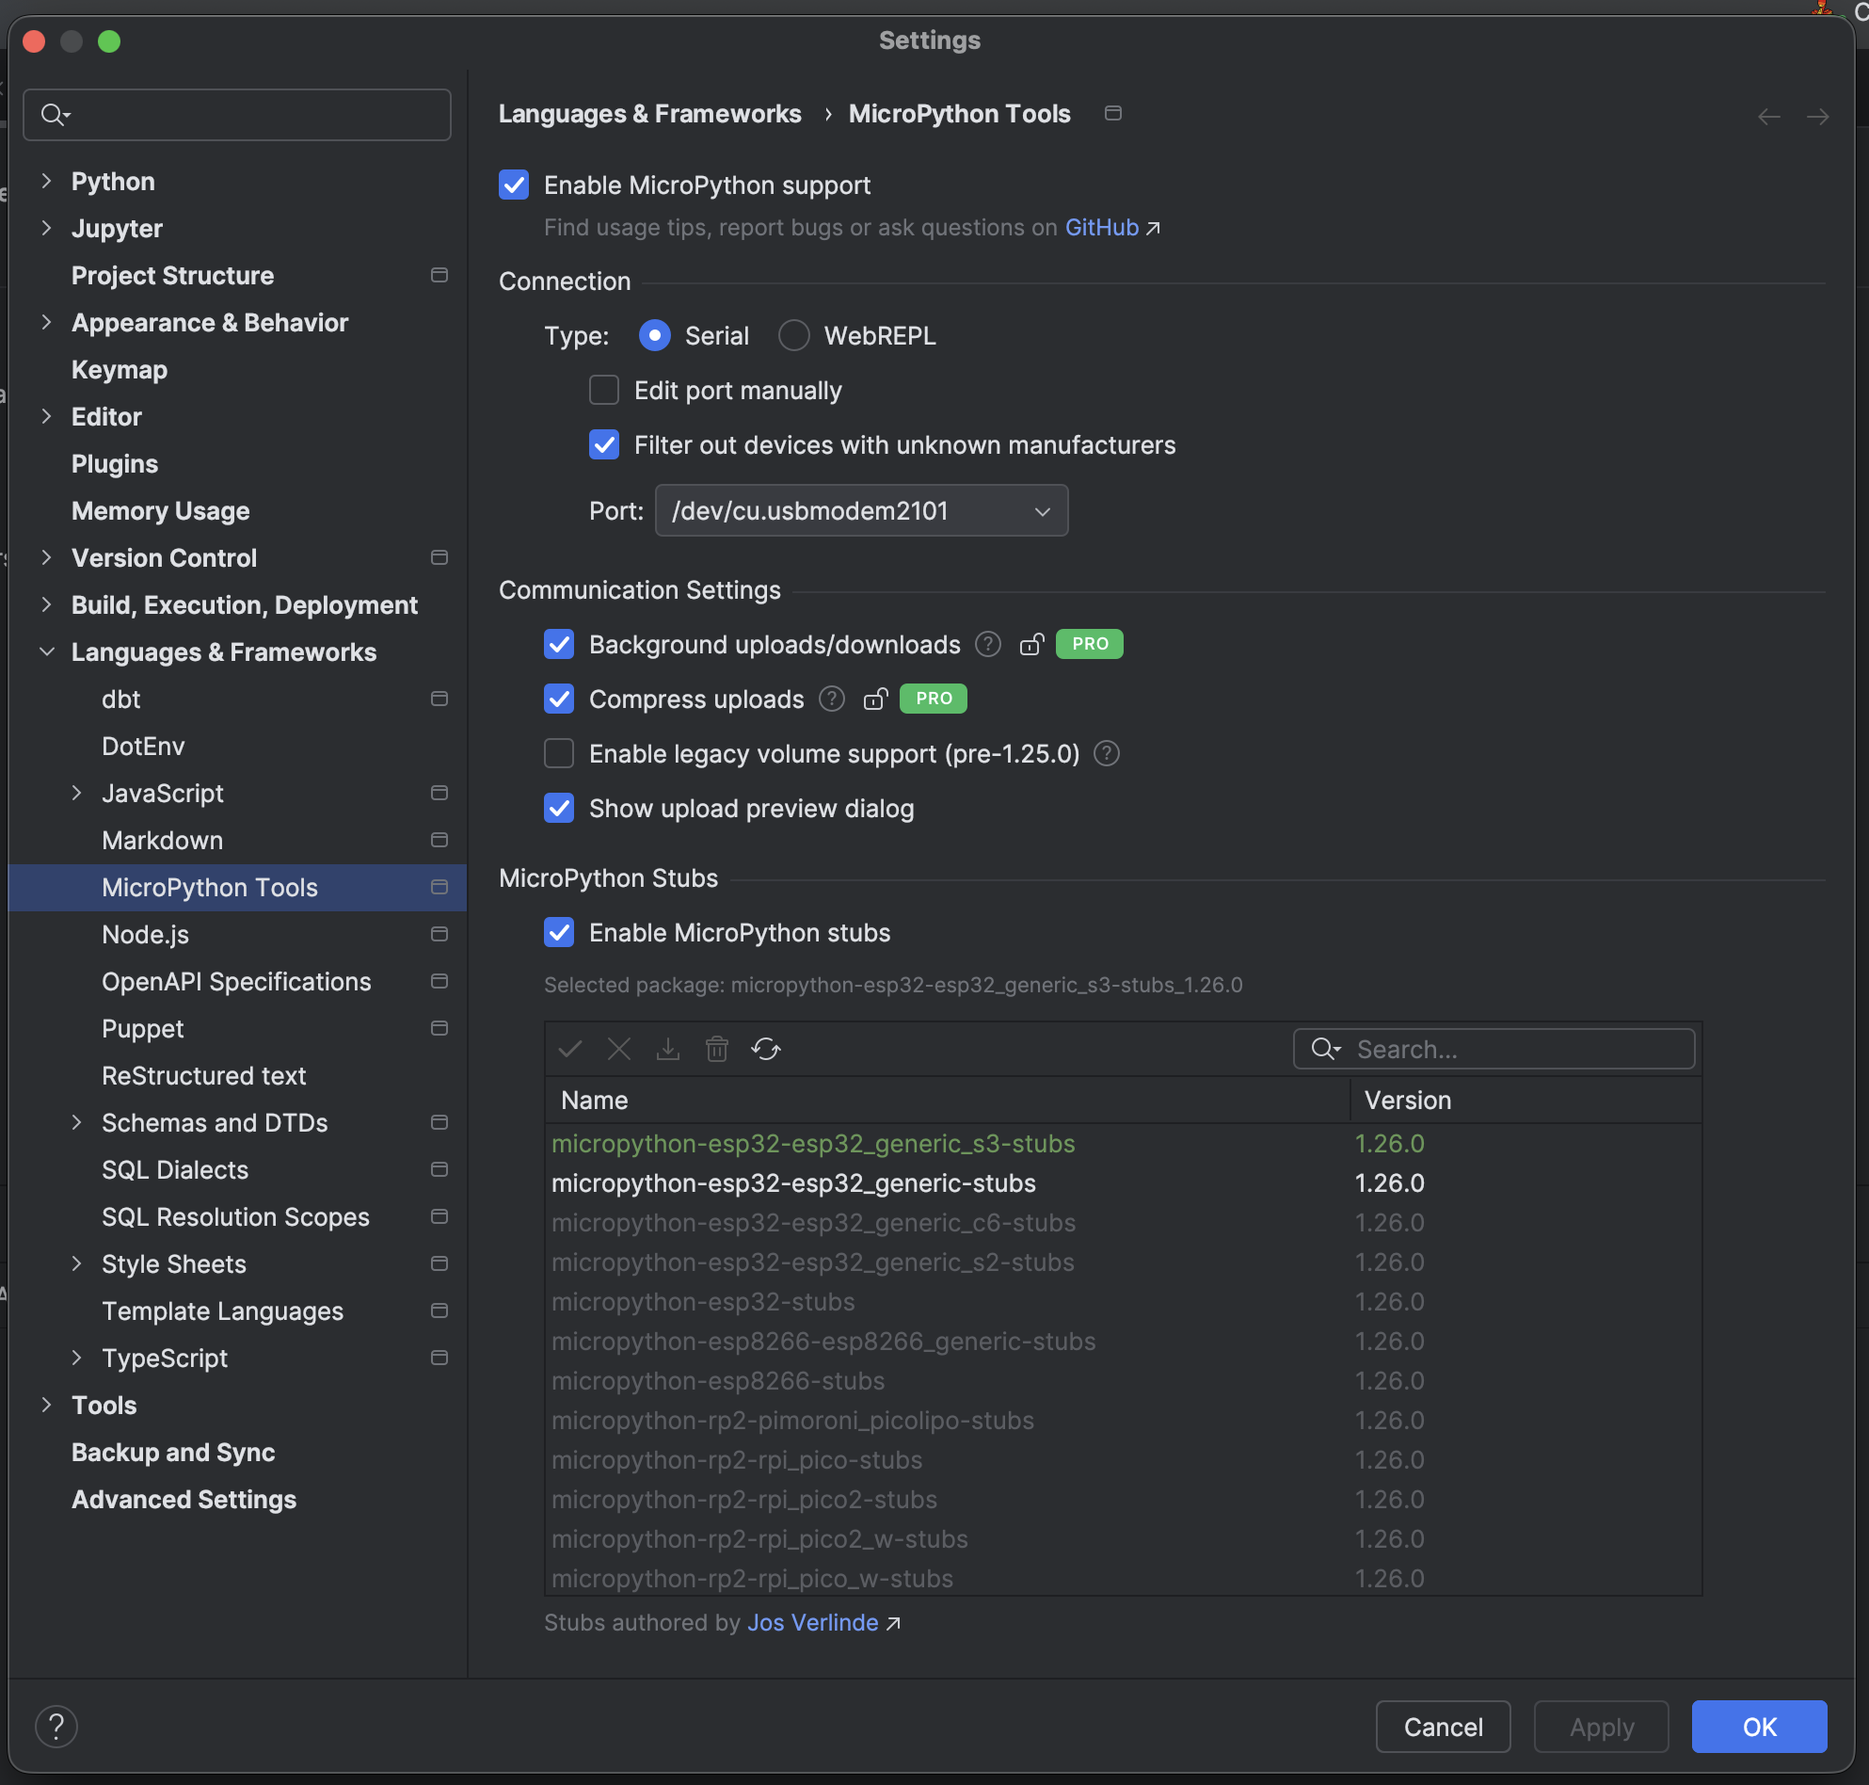
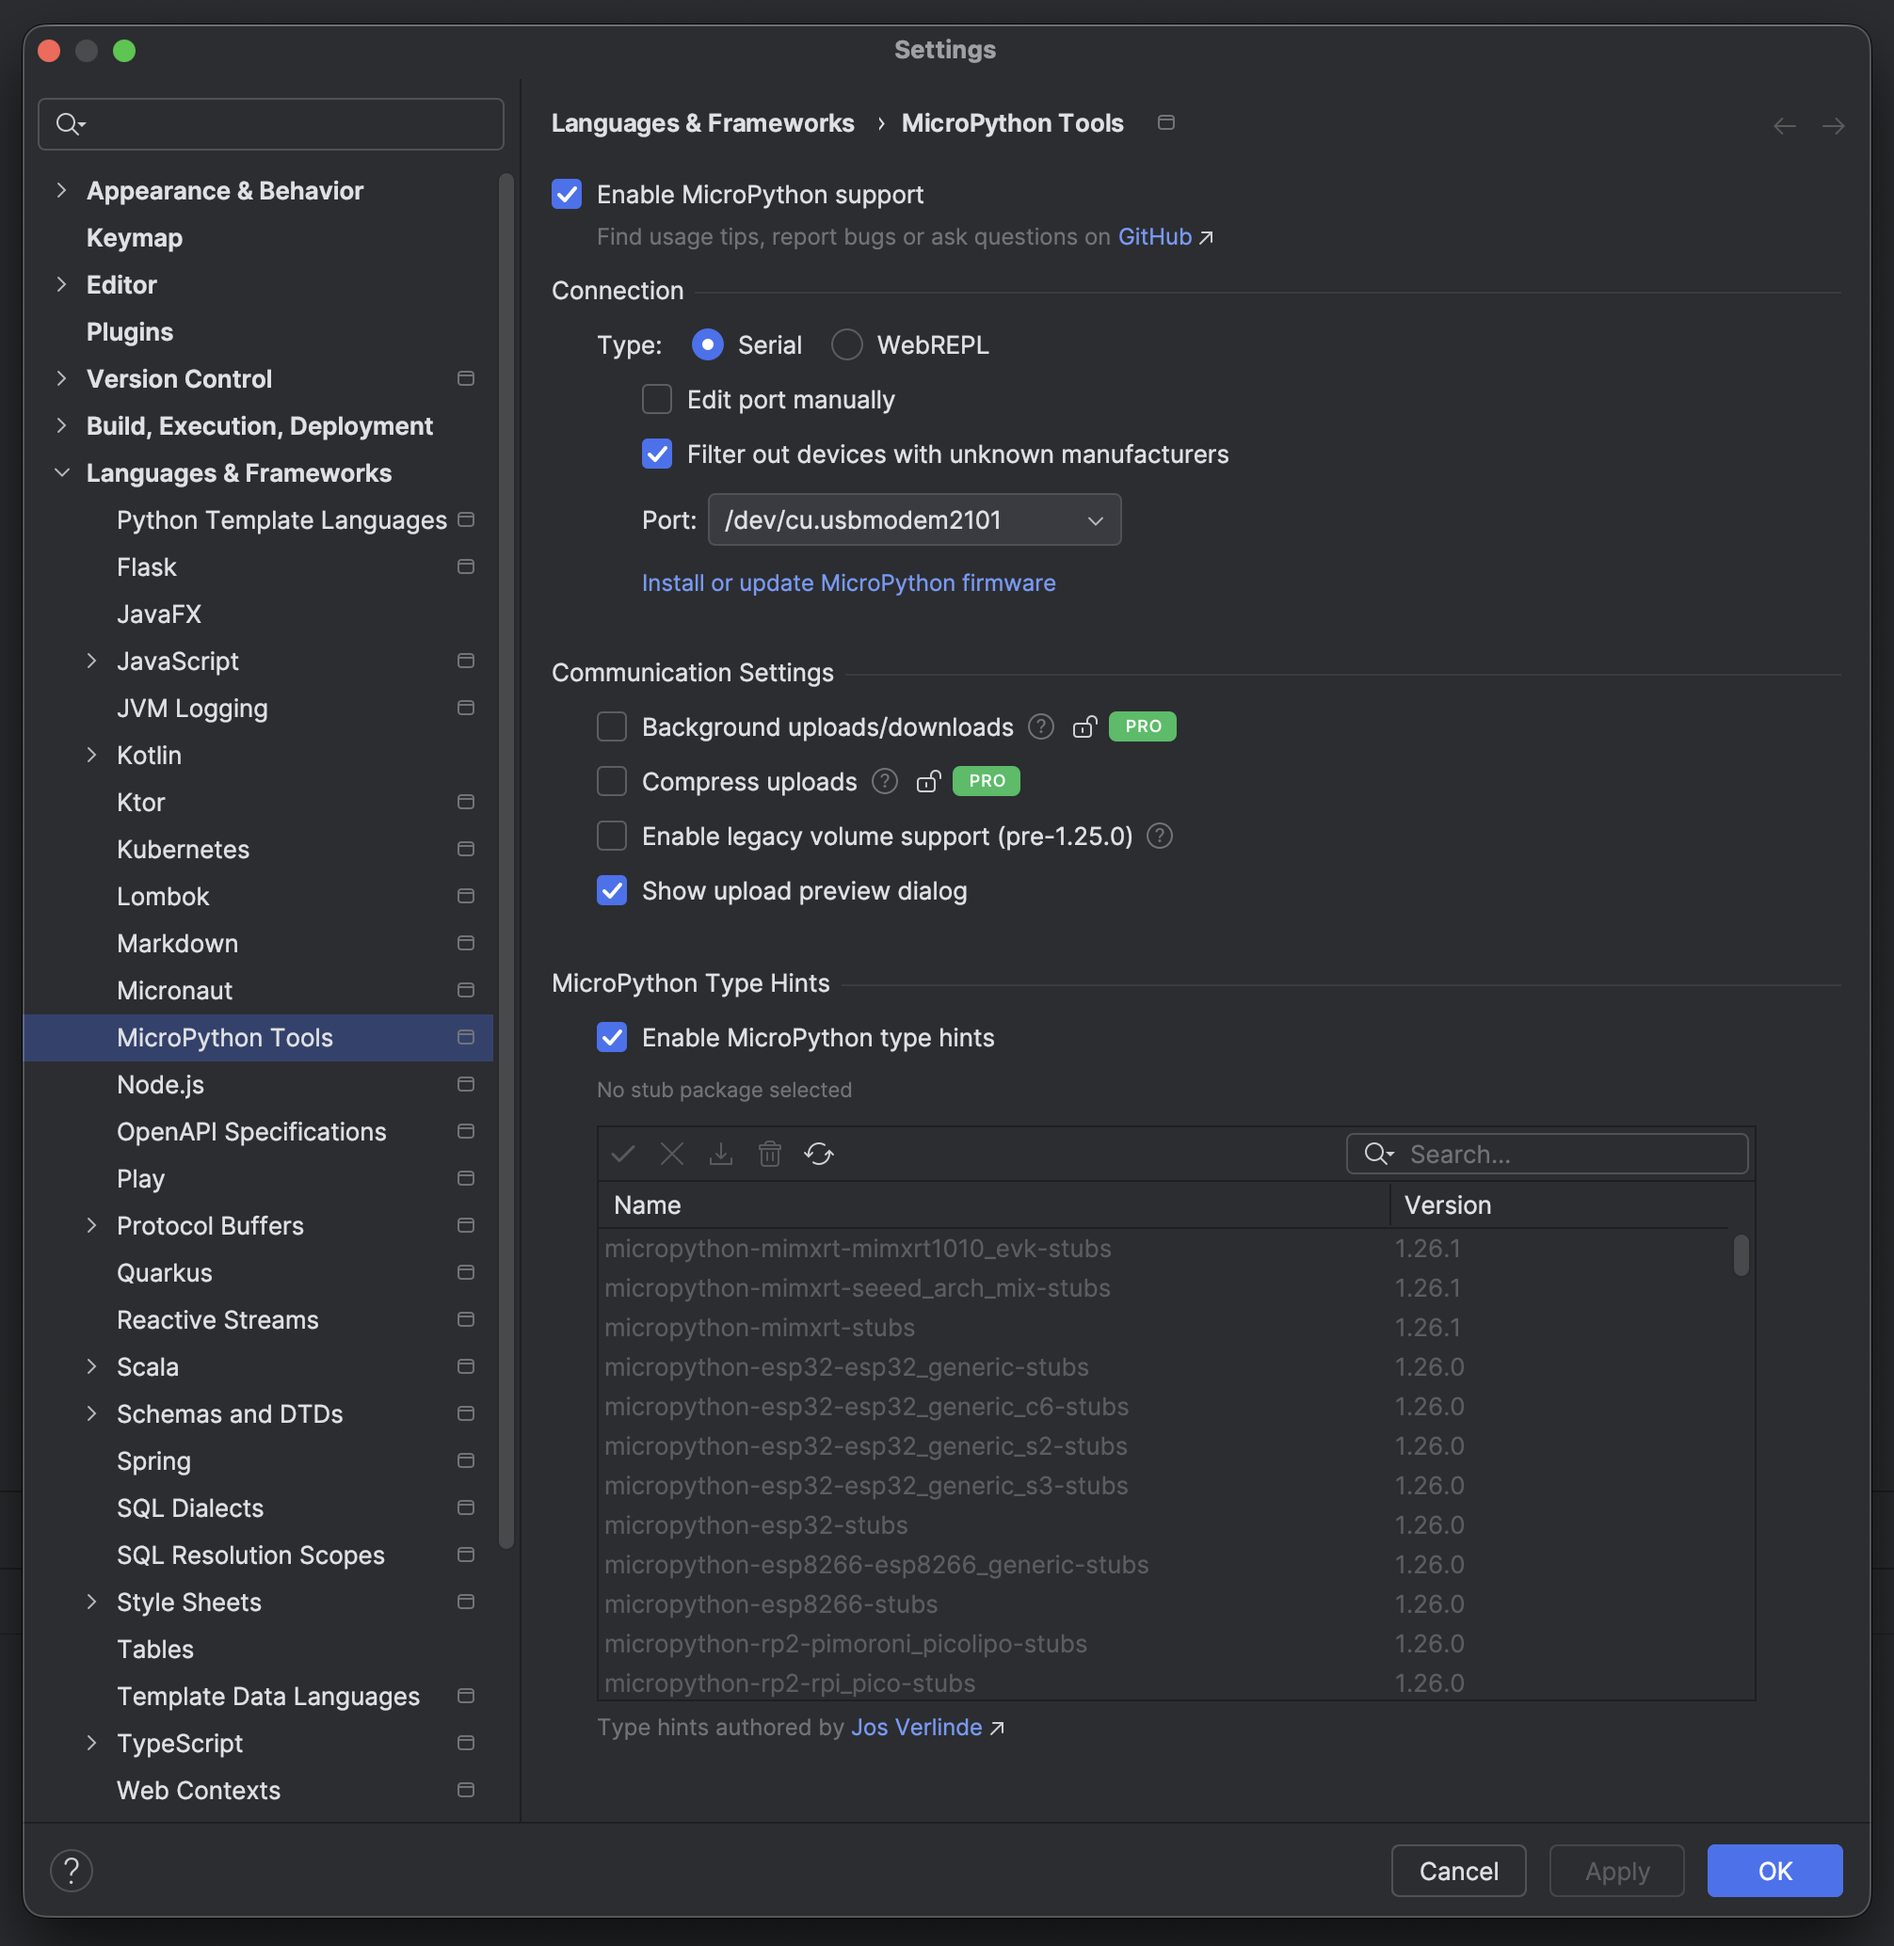
Mention firmware flashing in the README.md and DOCUMENTATION.md, update settings screenshot

diff --git a/DOCUMENTATION.md b/DOCUMENTATION.md
@@ -17,6 +17,7 @@
     - [Volume/SD card Support](#volume-support)
     - [File System Context Menu](#file-system-context-menu)
     - [Opening And Editing on-device files](#opening-and-editing-on-device-files)
+- [Firmware Flashing](#firmware-flashing)
 - [REPL Widget](#repl-widget)
 - [Uploads](#uploads)
     - [Run Configurations](#run-configurations)
@@ -214,6 +215,45 @@ support" checkbox in the settings.
 NOTE: Legacy support will slow down refresh operations anytime you connect a device with MicroPython version below 1.25,
 because the check is more comprehensive and demanding.
 
+## Firmware Flashing
+
+The firmware flashing dialog is accessible through the plugin settings or through the File System widget when no device
+is connected. It currently supports all ESP8266, ESP32, RP2 and SAMD devices.
+
+The dialog requires an active network connection to enable automatic downloads of compiled firmware binaries from
+micropython.org, with no internet connection you will be restricted to only flashing local firmware binaries.
+
+The dialog lets you select from the supported MicroPython ports/device types and al of their MCUs, and all the
+variants of the MCUs listed on micropython.org. The data is indexed once a day at midnight GMT and stored in the
+plugin's GitHub repo, where plugin installations retrieve it from.
+
+By default, the latest MicroPython version is selected. You can enable viewing of older releases and preview releases
+with the checkboxes.
+
+For ESP devices, the serial port combobox matches the one from MpyConfigurable, allowing you to select from detected
+serial ports, filter out those with unknown manufacturers, and allowing manual editing for custom/edge use cases.
+
+NOTE: Some ESP devices might require manual bootloader mode entry. This can be achieved by holding down the boot button
+while plugging the device in.
+
+If you constantly get "Device not configured" or similar pyserial errors, this might be the problem
+
+If your ESP device doesn't expose a UART serial port, but only a USB one, this might concern you as well, however, some
+modern boards which expose a USB interface can still work just fine.
+
+FOR RP2 and SAMD DEVICES: All UF2 based devices must be first put into the bootloader mode, this is usually done so by
+holding down the bootsel button while plugging the board in, or via a manufacturer-specified sequence of reset button
+presses.
+
+Once the device is in bootloader mode, you will be able to see it listed in the dialog as a volume.
+
+RP2 devices erase flash feature is facilitated by first uploading the UNIVERSAL_RP2_FLASH_NUKE.uf2 file by Phil Howard.
+
+SAMD devices unfortunately have no universal way to erase the flash, only the MicroPython file system can be erased.
+This must be done manually after flashing and connecting to the device.
+
+The connect after option is not available for UF2 based boards, as the port can't be tracked from the bootloader volume.
+
 ## REPL Widget
 
 The REPL Widget of this plugin lets you directly access REPL as it is. This means that all MicroPython REPL keyboard
@@ -336,48 +376,64 @@ The following features require an active Pro license.
 
 ### Background Uploads and Downloads
 
-Upload and download operations run in the background without blocking the IDE. Progress is shown in the IDE's background tasks manager (bottom-right corner). You can continue coding while transfers are in progress.
+Upload and download operations run in the background without blocking the IDE. Progress is shown in the IDE's background
+tasks manager (bottom-right corner). You can continue coding while transfers are in progress.
 
-Enable in `Settings → Languages & Frameworks → MicroPython Tools` with the "Enable background uploads/downloads" checkbox.
+Enable in `Settings → Languages & Frameworks → MicroPython Tools` with the "Enable background uploads/downloads"
+checkbox.
 
 ### Automatic File Compression
 
-Files are automatically compressed before upload and decompressed on the device. Compression is applied to files larger than 4KB that achieve at least 12% size reduction. Already-compressed files (images, archives, `.mpy`) are skipped. The upload preview dialog shows compression savings.
+Files are automatically compressed before upload and decompressed on the device. Compression is applied to files larger
+than 4KB that achieve at least 12% size reduction. Already-compressed files (images, archives, `.mpy`) are skipped. The
+upload preview dialog shows compression savings.
 
 Enable in `Settings → Languages & Frameworks → MicroPython Tools` with the "Enable upload compression" checkbox.
 
 ### mpy-cross Compilation
 
-Compile Python files to MicroPython bytecode (`.mpy`) directly from the IDE. Bytecode files load faster and use less memory on the device.
+Compile Python files to MicroPython bytecode (`.mpy`) directly from the IDE. Bytecode files load faster and use less
+memory on the device.
 
-Create a new `MicroPython Tools → mpy-cross Compilation` run configuration. Select what to compile (Project, Selected Sources Roots, or Custom Path), choose output location, and configure compilation options.
+Create a new `MicroPython Tools → mpy-cross Compilation` run configuration. Select what to compile (Project, Selected
+Sources Roots, or Custom Path), choose output location, and configure compilation options.
 
-The Project/Selected/Custom path source selecting logic is the same for this run configuration is it is for the [upload run configuration](#run-configurations).
+The Project/Selected/Custom path source selecting logic is the same for this run configuration is it is for
+the [upload run configuration](#run-configurations).
 
-**Auto-Detection:** Click the Auto-Detect button to automatically detect your device's bytecode version and architecture.
+**Auto-Detection:** Click the Auto-Detect button to automatically detect your device's bytecode version and
+architecture.
 
 **Emitter options:**
-- Bytecode: Standard bytecode, compatible with all devices (Choose this unless you know the implications of Native/Viper and how to use them)
-- Native/Viper: Faster machine code, architecture-specific (Strict requirements, Viper requires strict typing of variables, Native doesn't work well with exception handlers)
+
+- Bytecode: Standard bytecode, compatible with all devices (Choose this unless you know the implications of Native/Viper
+  and how to use them)
+- Native/Viper: Faster machine code, architecture-specific (Strict requirements, Viper requires strict typing of
+  variables, Native doesn't work well with exception handlers)
 
 **Optimization levels:** O0 (no optimization) through O3 (maximum optimization)
 
 **Embed modes:**
+
 - Filename only: Shortest (Slight obfuscation)
 - Relative to project root: Full paths in stack traces (best for debugging
 - Mapping file: Custom shortened paths (Allows manually setting up obfuscation of source files for stack traces
 
 **Special handling:**
+
 - `boot.py` and `main.py` are always copied as `.py` (not compiled)
 - Non-Python files can optionally be copied alongside `.mpy` files
 
-More information on mpy-cross compilation can be found on the [official micropython.org website](https://docs.micropython.org/en/latest/reference/mpyfiles.html).
+More information on mpy-cross compilation can be found on
+the [official micropython.org website](https://docs.micropython.org/en/latest/reference/mpyfiles.html).
 
 #### Mapping Files
 
-Mapping files customize the paths embedded in `.mpy` files. Format: one line per file with source path and embedded path separated by space.
+Mapping files customize the paths embedded in `.mpy` files. Format: one line per file with source path and embedded path
+separated by space.
 
 Example:
+
 ```
 src/network/wifi.py wifi
 src/utils/helpers.py utils/hlp
@@ -387,28 +443,41 @@ Click the "Generate" link in the run configuration to auto-generate a mapping fi
 
 #### Bytecode version to used mpy-cross binary mapping
 
-The plugin's selection of mpy-cross binaries deviates from what the mpy-cross python wrapper does. The official mpy-cross python library's compat parameter uses the earliest available mpy-cross binary of a give Bytecode/MicroPython version. 
+The plugin's selection of mpy-cross binaries deviates from what the mpy-cross python wrapper does. The official
+mpy-cross python library's compat parameter uses the earliest available mpy-cross binary of a give Bytecode/MicroPython
+version.
 
-This means that if you use --compat 1.26.1, it won't use the mpy-cross version 1.26.1, but the earliest available mpy-cross version compatible with the 1.26.1 MicroPython bytecode is mpy-cross of version 1.23.0.
+This means that if you use --compat 1.26.1, it won't use the mpy-cross version 1.26.1, but the earliest available
+mpy-cross version compatible with the 1.26.1 MicroPython bytecode is mpy-cross of version 1.23.0.
 
-This means you'll be missing out on several improvements and optimizations. For example multi line f strings (which mpy-cross 1.26.1 can handle) might not compile at all with mpy-cross 1.23.0.
+This means you'll be missing out on several improvements and optimizations. For example multi line f strings (which
+mpy-cross 1.26.1 can handle) might not compile at all with mpy-cross 1.23.0.
 
-This plugin solves this issue by internally using the latest available mpy-cross binary for a given version. So if you select -compat 1.23.0, 1.24.0 etc. it will default to the latest available mpy-cross binary for this version (at the time of writing this documentation it is 1.26.1) meaning you get the latest available mpy-cross optimizations and bug fixes.
+This plugin solves this issue by internally using the latest available mpy-cross binary for a given version. So if you
+select -compat 1.23.0, 1.24.0 etc. it will default to the latest available mpy-cross binary for this version (at the
+time of writing this documentation it is 1.26.1) meaning you get the latest available mpy-cross optimizations and bug
+fixes.
 
-NOTE: This should not affect backwards compatibility (bytecode from mpy-cross 1.26.1 should be perfectly compatible with MPY version 1.23.0), if you suspect you've ran into some compatibility issue caused by this plugin's mpy-cross version selection behavior, pleae open an issue.
+NOTE: This should not affect backwards compatibility (bytecode from mpy-cross 1.26.1 should be perfectly compatible with
+MPY version 1.23.0), if you suspect you've ran into some compatibility issue caused by this plugin's mpy-cross version
+selection behavior, pleae open an issue.
 
-The mapping of BytecodeVersions to used mpy-cross binaries differes on Windows/macOS due to the availability of pre-compiled binaries. To see what MicroPython version range a given MicroPython Bytecode version corresponds to, visit the official [micropython.org website](https://docs.micropython.org/en/latest/reference/mpyfiles.html). Below is the mapping of Bytecode version to used mpy-cross binary of this plugin for specific os Versions:
+The mapping of BytecodeVersions to used mpy-cross binaries differes on Windows/macOS due to the availability of
+pre-compiled binaries. To see what MicroPython version range a given MicroPython Bytecode version corresponds to, visit
+the official [micropython.org website](https://docs.micropython.org/en/latest/reference/mpyfiles.html). Below is the
+mapping of Bytecode version to used mpy-cross binary of this plugin for specific os Versions:
 
-| Bytecode Version | Windows/Linux/macOS x64 | macOS ARM         |
-|------------------|-------------------------|-------------------|
-| 6.3 (≥ 1.26)     | mpy-cross 1.26.1        | mpy-cross 1.26.1  |
-| 6.2 (≥ 1.22)     | mpy-cross 1.22.2        | mpy-cross 1.22.0  |
-| 6.1 (≥ 1.20)     | mpy-cross 1.21.0        | mpy-cross 1.20.0  |
-| 6.0 (≥ 1.19)     | mpy-cross 1.19.1        | mpy-cross 1.19.1  |
+| Bytecode Version | Windows/Linux/macOS x64 | macOS ARM        |
+|------------------|-------------------------|------------------|
+| 6.3 (≥ 1.26)     | mpy-cross 1.26.1        | mpy-cross 1.26.1 |
+| 6.2 (≥ 1.22)     | mpy-cross 1.22.2        | mpy-cross 1.22.0 |
+| 6.1 (≥ 1.20)     | mpy-cross 1.21.0        | mpy-cross 1.20.0 |
+| 6.0 (≥ 1.19)     | mpy-cross 1.19.1        | mpy-cross 1.19.1 |
 
 ### .mpy File Analyzer
 
 When you open a `.mpy` file in the IDE, a metadata panel displays:
+
 - File size
 - Embedded path
 - Emitter type (Bytecode/Native/Viper)

diff --git a/README.md b/README.md
@@ -75,6 +75,20 @@ Usage tips, setup guide and documentation are available [here](DOCUMENTATION.md)
 ![Upload Preview](media/upload_preview.png)
 </details>
 
+#### Firmware Flashing
+
+- Flash MicroPython firmware directly from the IDE with real-time progress output
+- Supports ESP, RP2 and SAMD devices
+- Automatic firmware download from micropython.org or use local firmware files
+- Configurable erase flash option (with universal flash nuke support for RP2 boards)
+- Accessible through the plugin settings or file system widget when no device is connected
+
+<details>
+<summary>View Firmware Flashing Dialog screenshot</summary>
+
+![Firmware Flashing](media/flash_firmware_dialog.png)
+</details>
+
 #### Run Configurations
 
 Multiple run configuration types for different workflows:
